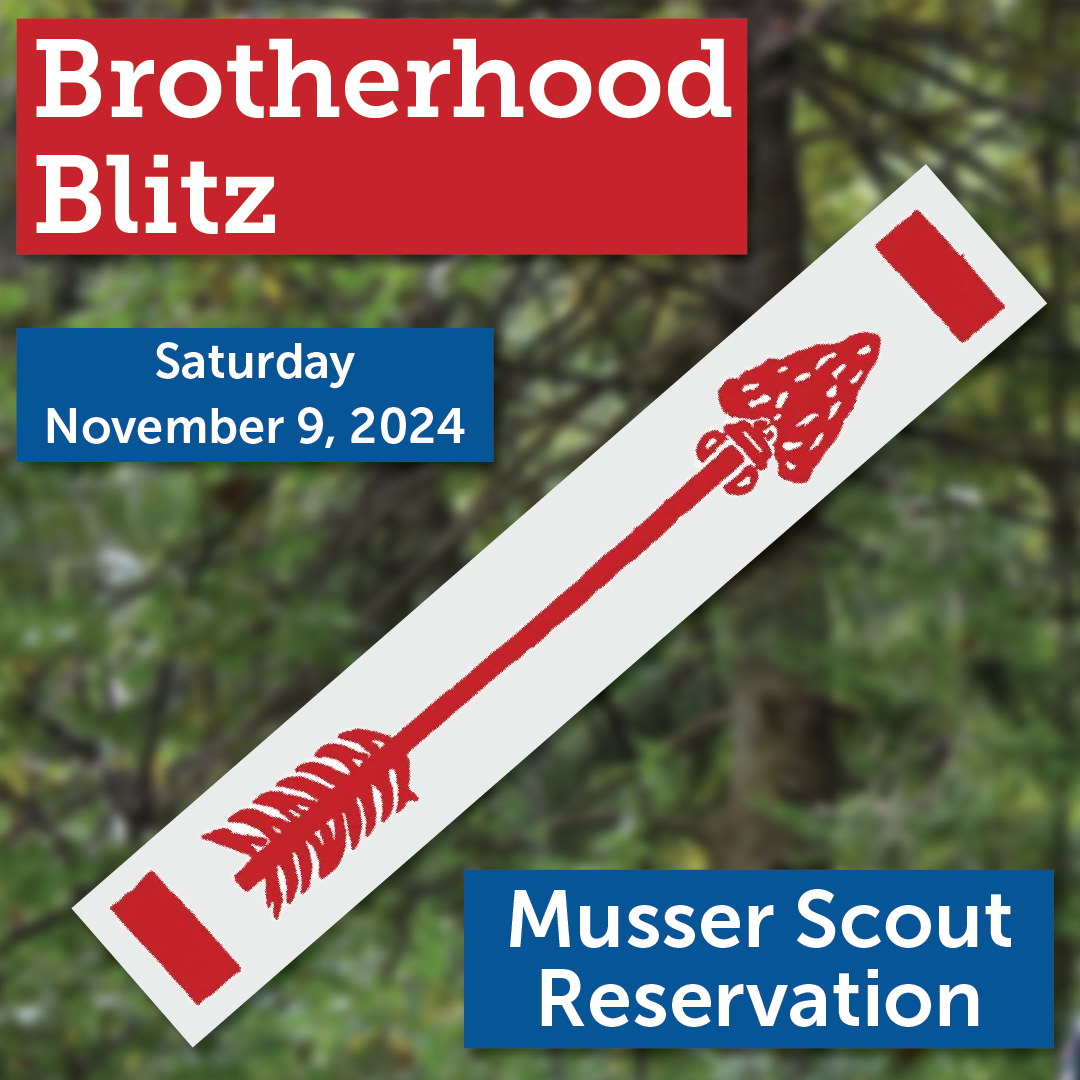
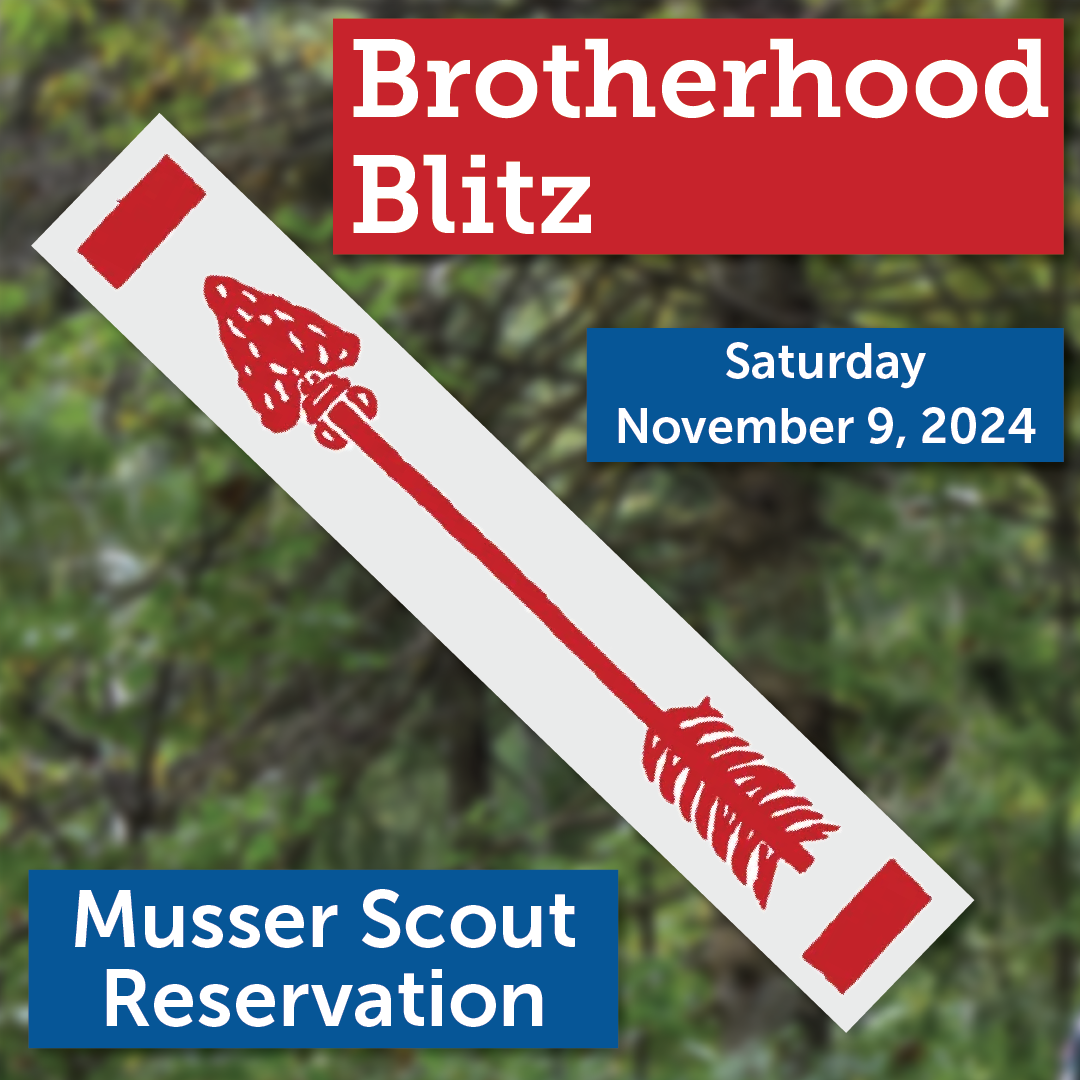
Updated events and fixed branding

diff --git a/links.md b/links.md
@@ -3,10 +3,11 @@ title: Home
 layout: links
 
 link-highlight:
-  Community Service Day: https://scoutingevent.com/?OrgKey=BSA525&calendarID=482858
+  Brotherhood Blitz: https://scoutingevent.com/525-89332
 
 links:
-  Fall Fellowship: https://scoutingevent.com/525-68803
+  Award Nominations Due: /awards
+  Lodge Leadership Development: https://docs.google.com/forms/d/e/1FAIpQLSevz3GigVG_GVLS8tguH6EOoOjX31n0e7iP0WcxkI2EHK50Bw/viewform
   2024 Dues: https://unamilodge.org/dues
   Join the Order: https://unamilodge.org/electedcandidates
   Seal the Bond: https://unamilodge.org/brotherhood
